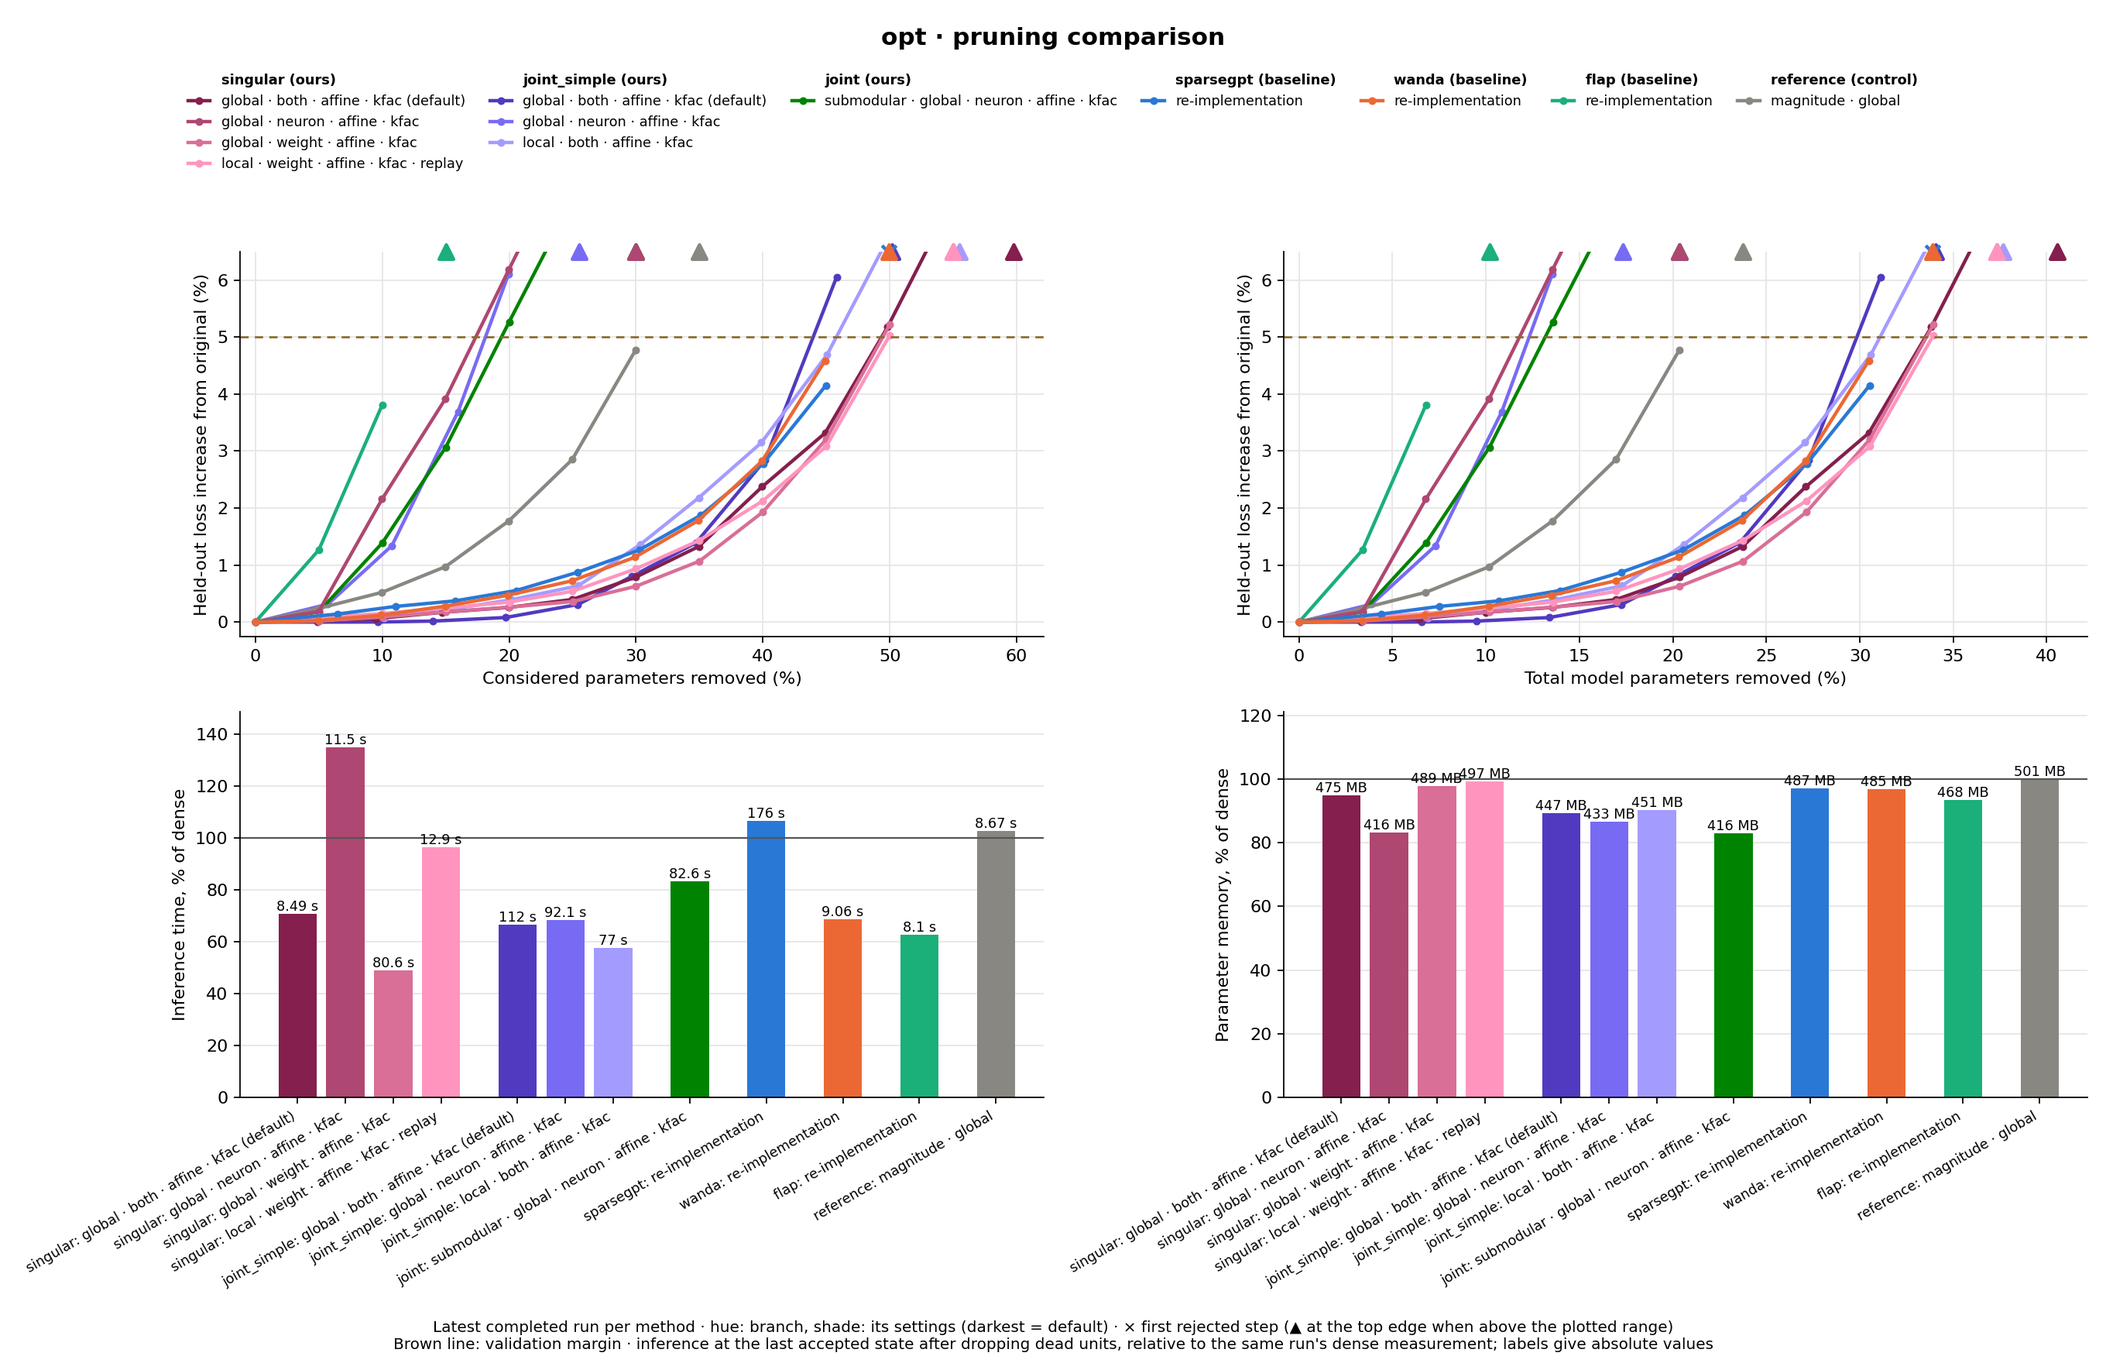
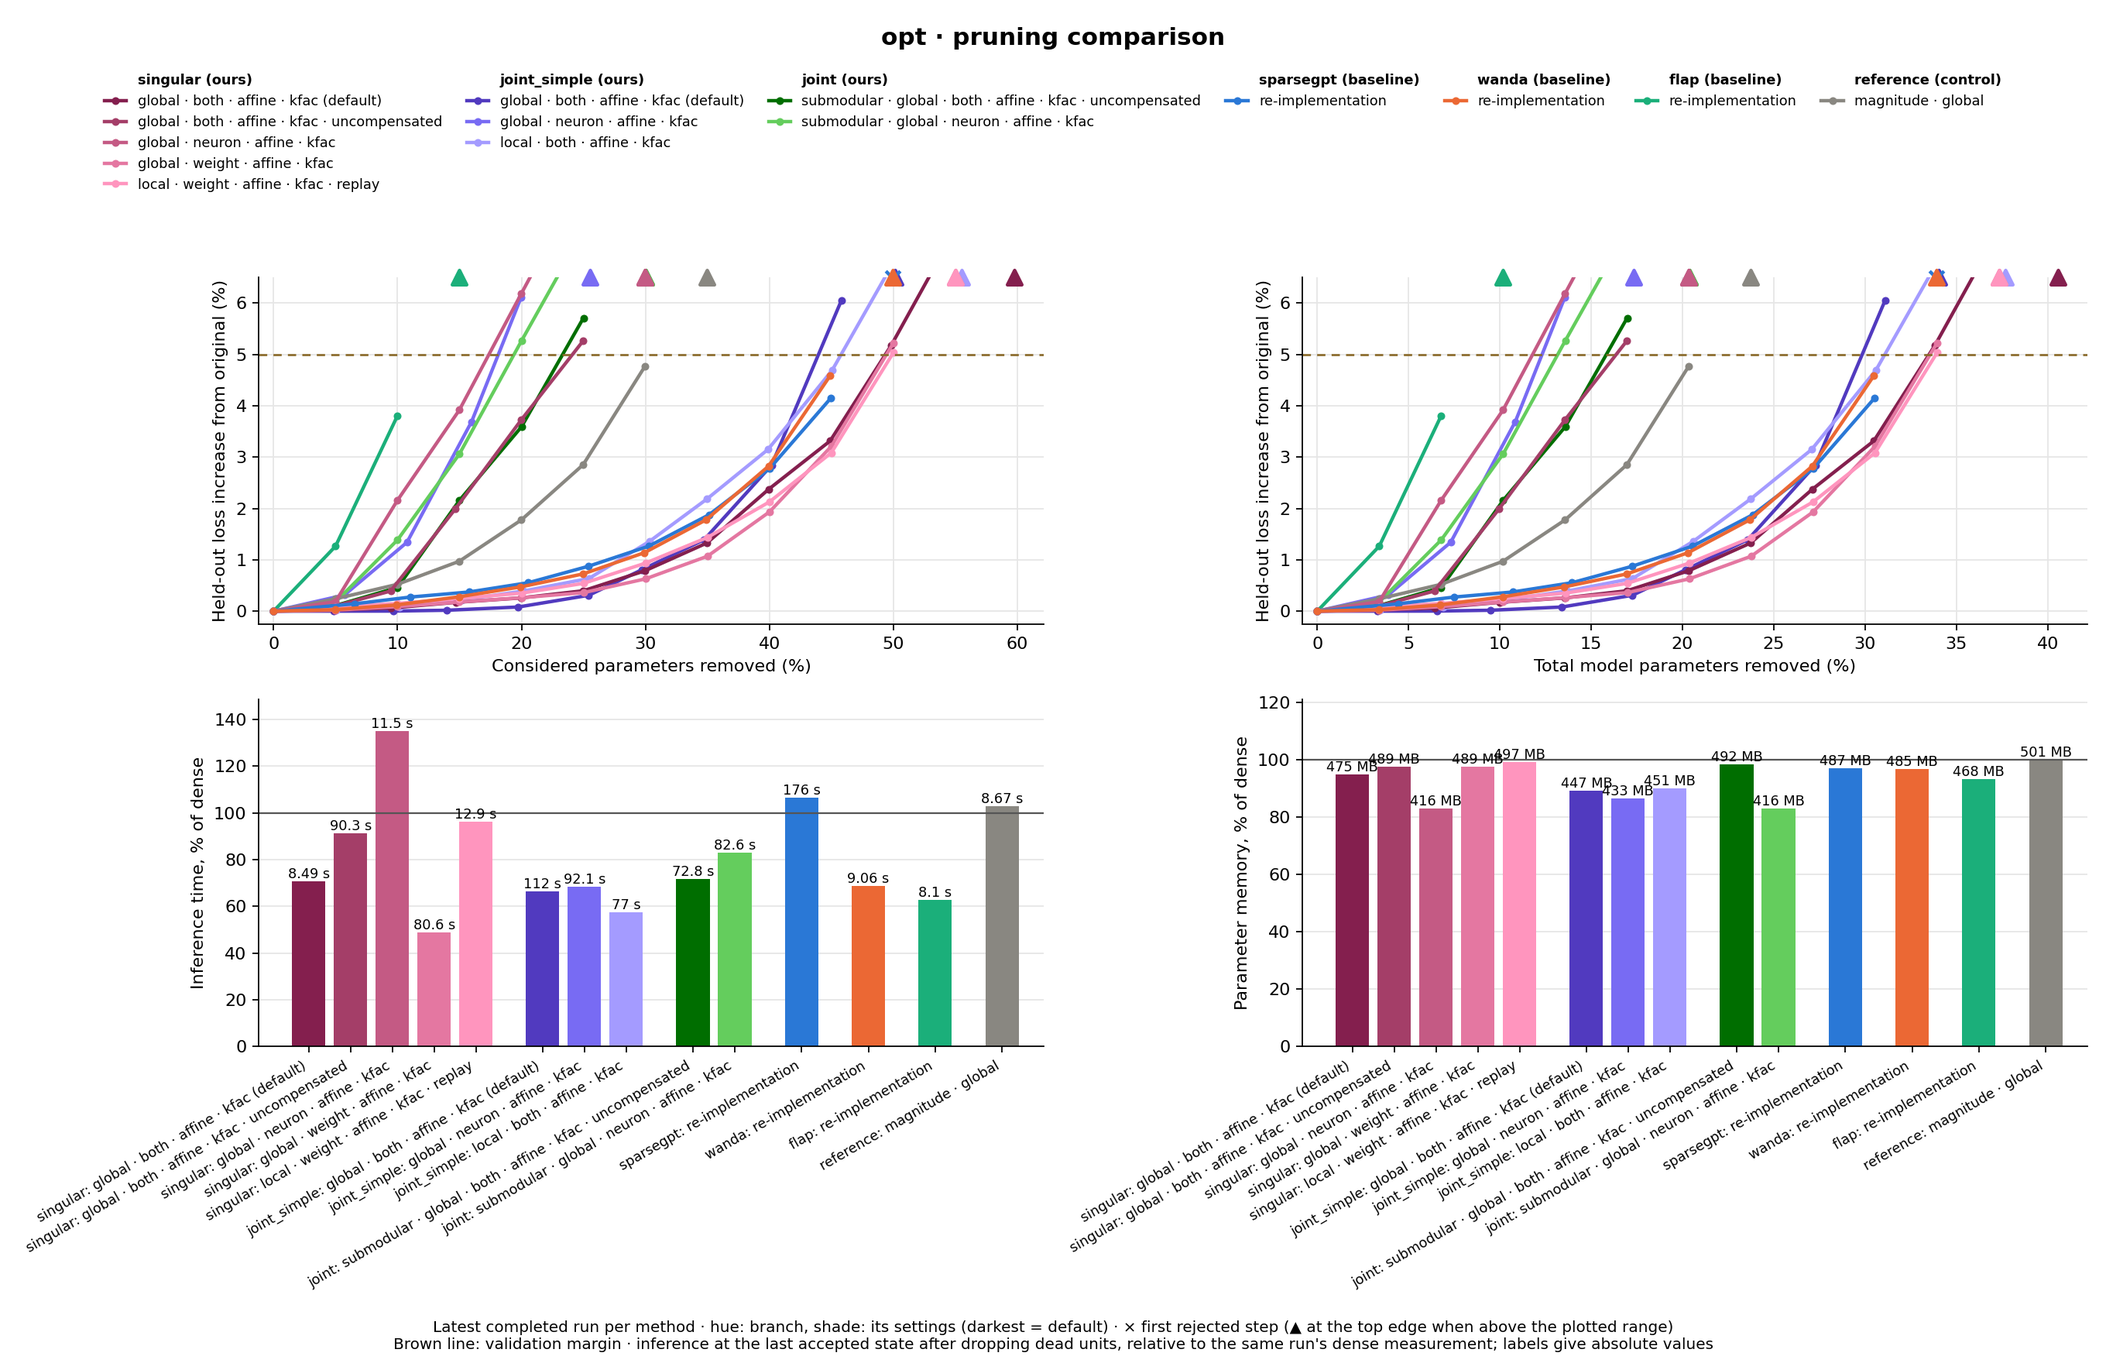
update

diff --git a/handoff/theory_prompt.md b/handoff/theory_prompt.md
@@ -1,0 +1,198 @@
+# Handoff: theory of structure-aware second-order pruning
+
+You are continuing the theoretical side of a research project on pruning neural networks. The code will be linked
+separately; it is the source of truth for what is implemented. This document records what the code cannot tell you:
+the spirit of the project, the vocabulary, the reasoning behind design decisions, the related work we considered (and
+how firmly each claim is established), the conclusions reached so far, and the open questions. State of 2026-11-15.
+
+## Working style the user expects
+
+- Be concise; give the gist first. Equations render as LaTeX (`$...$`, `$$...$$`) and are preferred to Unicode.
+- Prefer principled, parameter-free formulations. A free trade-off coefficient (a λ with units) is a smell; prefer
+  constrained forms or coefficients fixed by theory (e.g. confidence bounds). The user assumes a cleaner, more general
+  formulation is also more likely to be correct.
+- Always distinguish (i) published claims, (ii) project notes/derivations, (iii) your own new reasoning. Several
+  references below came from abstracts or memory only; say so when you rely on them. Papers the project builds on
+  should live in `sources/` (the repo's reference archive).
+- Correct the user directly when a premise is wrong (e.g. "isn't this just X?" → explain the actual difference).
+
+## Spirit of the project
+
+The project began from the supervisor's *boundary pruning* framework for symbolic regression (sources: `Emergent_SR`,
+`NNpruning — working notes`, original code). Its ideas, carried to neural networks:
+
+- Every pruning move is a **limit of the parametrisation, realised exactly**: zeroing a weight, saturating a unit
+  (bias → ±∞), replacing a unit by its mean (folded into the next bias), merging duplicates, rank cuts. Moves follow
+  from the architecture rather than a list of heuristics.
+- **Identifiability decides how a move is judged.** *Exact* redundancy (a structural null) is removed at zero cost
+  with no statistic; *sloppy* redundancy has no valid Fisher statistic and needs held-out data.
+- The `classic` branch is this framework (greedy structural moves, held-out selection, BIC-style tie-break).
+
+The user's expansion is a **second-order, joint** view. Choose a deletion set D and compensating values u on surviving
+coordinates U to minimise the Fisher quadratic damage, while crediting the **structural savings K(D)**: everything
+that function-preserving cleanup (*canonicalization*) frees once D is deleted — dead neurons (all incoming or all
+outgoing weights gone), constants folded into downstream biases, cascades. Historical objective:
+
+$$
+\tfrac12\,\Delta(D,u)^\top F\,\Delta(D,u) \;+\; \tfrac{\mu}{2}\|u\|^2 \;+\; \lambda_u\,|\mathrm{supp}(u)| \;-\; \lambda_d\,K(D).
+$$
+
+**The current research focus is operationalising "exploit the model's structure" through K(D)**, efficiently and with
+theory behind it. Three axes that used to be conflated under "joint": (1) whether/how U is charged, (2) including K(D)
+(which requires optimising over *sets*), (3) the algorithm (until recently only Gurobi).
+
+## Vocabulary and settled facts
+
+- **F** is the *model* Fisher (labels sampled from the model). $\tfrac12\delta^\top F\delta$ approximates the average KL
+  between dense and pruned predictions; it is ≥ 0 and zero only at δ = 0, so this objective can never say pruning
+  *improves* the model. The per-example KL has **no linear term** at δ = 0 for any weights (the score has zero mean
+  under the model's own distribution); its Hessian is the per-example Fisher $F_i$.
+- **K-FAC**: block-diagonal per affine module, $F_m \approx B_m\otimes A_m$ (A: input second moments incl. a bias
+  column; B: sampled output-gradient second moments). Consequences: the optimal compensation for deletions in module m
+  lies entirely in m; with a fixed per-module budget, deletion selection decomposes per module exactly.
+- **Compensation** = solving the AXB quadratic over all surviving coefficients of a module ("full complement",
+  conjugate gradient). **OBS singleton score** $\tfrac12 w^2/[F^{-1}]_{ii}$ is the cost *with* compensation; the OBD
+  score $\tfrac12 w^2 F_{ii}$ is the cost *without*.
+- **Shared settings** (meaning fixed across methods):
+  - `scope: local | global`. Local = each solve unit meets the target alone (quota). Global = one model-wide problem and budget. Under K-FAC, global reduces to per-unit problems linked by one shared price per deletion, so global vs local differs only in budget sharing. With the exact Fisher, global also couples modules.
+  - `replay` (local only): prune block by block, re-measuring statistics on the already pruned model (incompatible with a single global budget).
+  - `unit: weight | neuron | both`.
+  - `affine`: biases are candidates and compensation variables, or frozen.
+  - `curvature: kfac | fisher`.
+  - `objective: kl | spread`.
+  - `compensation: full | none`.
+- **Methods** (branches):
+  - `singular`: score candidates once by singleton OBS cost per removed parameter, select up to budget, then one full compensation per module.
+  - `joint`: per greedy move, exact MIQP (Gurobi) over a tiny pool (~8 blocks + 8 update coordinates) with an update charge and exact K via logical constraints; everything recomputed per move.
+  - `joint_simple`: canonical L0 by penalised proximal gradient on $\tfrac12(V-W)^\top F(V-W)+\lambda\,\mathrm{retained}(V)$ over all coefficients. K enters through a three-state neuron prox (keep / constant / disconnected); λ is searched per step; no update charge.
+  - `joint_submodular`: greedy cover over lifted candidates (below), with neuron cuts applied one at a time with exact rank-one compensation, weights in rounds, and a full solve per round.
+  - `classic`: the supervisor's framework.
+  - Baselines: Berman et al. (Fisher-distance scores), SparseGPT, Wanda, FLAP, SliceGPT and LLM-Pruner (authors' code), and a magnitude/random reference.
+- **Protocol**: every method prunes progressively until held-out validation loss exceeds the dense loss by 5% + 2
+  paired standard errors; fixed-target methods sweep 5% steps from dense. Benchmarks: two-moons, modular addition,
+  "berman" (MNIST SimpleNN from Berman et al.), OPT-125M (SparseGPT setting), OPT-125M SliceGPT setting, LLaMA-7B
+  settings (blocked by GPU memory).
+
+## Theoretical conclusions reached so far
+
+1. **K(D) is not submodular in weight space.** Deleting the last live weight of a neuron frees the whole neuron
+   (increasing returns). Example: incoming a, b, outgoing c: $K(\{b\})-K(\varnothing)=1<K(\{a,b\})-K(\{a\})=2$. The
+   "all incoming OR all outgoing" death rule means it is not cleanly supermodular either.
+2. **Lifting restores submodularity exactly.** Add, per hidden neuron, two candidate *copies*: a fan-in cut (the neuron
+   becomes a constant folded downstream) and a fan-out cut. Each candidate covers coordinates (a weight itself; a neuron
+   copy its row, column and own bias). Savings are then a **coverage function** $K(T)=|\bigcup_{v\in T}\mathrm{cover}(v)|$,
+   which is submodular, and still exact: the increasing returns were an artifact of describing structures only through
+   their weights. Both cuts cover the same coordinates; they differ only in compensation (the fan-in cut alters the
+   protected downstream bias). Gap: multi-level cascades in chains of ≥ 3 layers (exact for 2-layer MLP blocks, e.g.
+   every OPT/LLaMA MLP).
+3. **Use the constrained form.** K counts parameters and damage is in nats, so $K-\mathrm{damage}$ fixes an arbitrary
+   exchange rate. Prefer $\min\ \mathrm{damage}\ \text{s.t.}\ K\ge k$ (progressive targets) or
+   $\max K\ \text{s.t.}\ \mathrm{damage}\le\rho$; λ becomes a Lagrange multiplier. Iyer & Bilmes also show the
+   difference form is inapproximable in the worst case.
+4. **Damage is weakly submodular.** Compensated damage is a best-subset-type objective; restricted strong convexity
+   implies weak submodularity (Elenberg et al.), with ratio set by the conditioning of F on sparse sets. Damping improves
+   it. This is what gives greedy over lifted candidates its footing.
+5. **Incremental updates under K-FAC.** Removing a row (or column) of module m is a Schur-complement update of the
+   restricted $B^{-1}$ (or $A^{-1}$), O(d²), exact; scattered single weights break the Kronecker structure (no closed
+   form) and must be batched with a CG solve between batches.
+6. **A convex alternative was considered and set aside.** The submodular surrogate
+   $F(S)=\alpha|S|+\beta\sum_g \mathrm{size}_g[S\cap g\ne\varnothing]$ has a convex envelope ($\ell_1$ + size-weighted
+   group $\ell_\infty$, via Bach's Lovász-extension result) but cannot express the OR death rule; it remains an option for
+   a convex, very scalable relaxation.
+7. **Label-based objectives fail in the quadratic framework.** Adding the true-label held-out gradient (a linear term)
+   makes the optimum a free Newton step on held-out data; along nearly flat Fisher directions it is enormous (≈250× the
+   weight norm in MNIST layer 1). A confidence-bound penalty does not help because the held-out gradient is genuinely
+   significant; the failure is quadratic-model validity. Damping fixes it only with ~100–1000× the damping that
+   compensation needs (the RHS has components in weak directions). Needs a trust region (e.g. Levenberg–Marquardt ratio
+   test) or abandoning labels in the objective.
+8. **The spread objective (implemented).** Use the per-example KL from the dense model for both terms (no labels, no
+   linear terms):
+   $$\min_{\delta:\ \delta_D=-w_D}\ \mathbb{E}_i[\mathrm{KL}_i]+\beta\sqrt{\mathrm{Var}_i[\mathrm{KL}_i]},\qquad \beta=\sqrt{2\log(1/\eta)/n}.$$
+   To leading order $\mathrm{Var}_i[\mathrm{KL}_i]=\tfrac14\mathrm{Var}_i[\delta^\top F_i\delta]$ (quartic; spread of squared
+   prediction distortion $\|J_i\delta\|^2_{H_i}$). Its gradient is a reweighted Fisher, so it is optimised by IRLS:
+   $F_w=\mathbb{E}_i[(1+\beta z_i)F_i]$ with $z_i$ the standardised exact per-example KL of the current model. The user
+   preferred this bound form over mean + λ·variance because the bound's coefficient is dimensionless and fixed by n, η.
+9. **Compensation is a dial between generalisation and robustness** (empirical, berman). Uncompensated deletion acts
+   as shrinkage on an overfit model: held-out loss drops ~5% below dense around 40–46% removed, then collapses (~45–58%).
+   Full compensation reproduces the (overfit) dense model, so no dip, but survives to ~80%. The MIQP's dip came from its
+   tiny update budget, not Gurobi: 0 / 8 / 64 updates give progressively shallower dips and later breaks; charging updates
+   (λ_u) is irrelevant. On OPT-125M no method dips (the pretrained model is not overfit to its evaluation data). Using the
+   OBS score without compensation is mis-specified (should use OBD).
+
+## Related work considered
+
+Status markers: [S] PDF in `sources/` (read in full or substantially); [A] found by web search, abstract/summary only;
+[M] recalled from memory, not checked this project.
+
+Combinatorial / second-order pruning:
+- [S] CHITA (Benbaki et al., ICML 2023): OBS with Fisher, combinatorial, unstructured, Hessian-free IHT.
+- [A] OSSCAR (Meng et al., ICML 2024): one-shot structured pruning as combinatorial optimisation over subsets of
+  structures, local search with low-rank updates, scales to OPT-30B.
+- [A] FALCON (Mazumder group, 2024): ILP jointly under FLOP and sparsity constraints.
+- [A] ALPS (Meng et al., 2024): L0-constrained layer-wise pruning solved with ADMM plus PCG refit; strong at 70%.
+- [A] iCBS (Rosenberg et al., Amazon, 2024): block-coordinate combinatorial brain surgeon (QCBO per block). Most direct
+  way to scale an exact MIQP.
+- [A] ZipLM (Kurtic et al., NeurIPS 2023): structured OBS, inference-aware greedy removal.
+- [A] Knapsack pruning (Aflalo et al., 2020): neurons as knapsack items.
+- [A] DepGraph (Fang et al., CVPR 2023): automatic coupled-parameter groups from the graph (generic version of our
+  inferred canonical structure).
+- [A] Hazimeh, Mazumder & Radchenko (Ann. Stat. 2023): group L0 with local search and custom branch-and-bound to 10⁶
+  features. [A] Bertsimas & Van Parys (Ann. Stat. 2020): exact sparse regression via cutting planes at 10⁵ scale.
+- [S] L0Learn (Hazimeh & Mazumder): penalised proximal gradient for L0 (basis of `joint_simple`).
+- [A] Louizos et al. (ICLR 2018): hard-concrete L0 gates, also group gates.
+- [A] QUBO pruning (2024–2026) and QPBO/roof duality (Rother et al., CVPR 2007).
+
+Set functions:
+- [A] El Halabi, Srinivas & Lacoste-Julien (NeurIPS 2022): neuron selection with compensation is weakly submodular;
+  greedy with guarantees.
+- [A] Bach (NIPS 2010) and monograph; [A] Jenatton et al. (JMLR 2011): submodular → structured norms via the Lovász
+  extension; exact prox for tree-structured groups.
+- [A] Iyer & Bilmes (UAI 2012): difference of submodular functions (MM algorithms); [A] Iyer & Bilmes (NeurIPS 2013):
+  submodular cover / submodular knapsack constraints (iterate modular bounds) — closest to our constrained form.
+- [A] Das & Kempe (ICML 2011) submodularity ratio; [A] Elenberg et al. (2016) RSC ⇒ weak submodularity.
+- [A] Harshaw et al. (ICML 2019): weakly submodular minus modular cost (distorted greedy).
+- [A] Bai & Bilmes (ICML 2018): submodular + supermodular (curvature-dependent greedy).
+- [M] Nemhauser–Wolsey–Fisher, Feige (max coverage), Minoux lazy greedy, Mirzasoleiman stochastic greedy, Wolsey
+  submodular cover, Buchbinder double greedy.
+
+Variance and generalisation:
+- [M] Maurer & Pontil (2009) empirical Bernstein bounds; [M] Namkoong & Duchi (NeurIPS 2017) variance regularisation ≈
+  χ²-DRO. Basis of the β in the spread objective; verify before citing.
+- [M] Heskes (1998) bias–variance for log loss; [M] Molchanov et al. (2017) variational dropout sparsification; [M]
+  Louizos et al. (2017) Bayesian compression; [M] Achille & Soatto, information in the weights.
+
+The supervisor's three manuscripts ([S], in `sources/`):
+- Achille & Soatto, *Information Dropout* (1611.01353): Information Bottleneck via learned multiplicative noise per
+  unit; with ReLU and a log-uniform prior each unit costs $-\log\alpha_j$; a unit tolerating unbounded noise carries no
+  information. Bridge (ours): post-training, noise on unit j costs $\tfrac12\alpha_j c_j$ (our uncompensated column
+  cost); $\max\sum\log\alpha_j$ s.t. budget gives $\alpha_j\propto1/c_j$; differs from our ranking by dropping the
+  per-parameter normalisation (cost vs cost/size) — a candidate "K-free" structural reward.
+- Yu et al., *Effective Information Criterion* (yu26az, ICML 2026): multiplicative rounding noise per node,
+  $s_k^2=1+\sum_i\kappa_{ki}^2 s_i^2$, EIC = worst node; judges the computation graph, not the function. Candidate
+  "error-propagation safety" diagnostic for pruned networks.
+- Moscato, *Sequential Newton–MIMEP* (manuscript_final): representation depth vs scientific depth; admit one
+  coordinate at a time; protected tails in the null space of admitted quantities; profiled information
+  $I_{x|N}$; nuisance monotonicity (enlarging free nuisance directions cannot increase profiled information); inherited
+  error amplification $g^\top\Sigma g$. Links: OBS score = Wald statistic with all other coefficients as nuisance;
+  compensation = nuisance refit; our validation stop = admission test.
+
+## Supervisor's open requests (her words, paraphrased)
+
+- Pruning as **variance reduction and error-propagation safety**; hope: a variance objective might make an explicit
+  K(D) unnecessary. Our assessment so far: noise-site choice plays the role of K; variance objectives are soft (exact
+  zeros only for exact nulls); log-scale (IB-type) rewards, not raw variance, can stand in for a count.
+- "Out of curiosity/validation, look at the **evolution of the bias–variance trade-off** if computationally viable."
+  Not yet done. Distinguish variance *across examples* (what the spread objective uses) from variance *across training
+  sets* (the bias–variance notion). Options: retrain replicates on small benchmarks (Heskes decomposition), or Laplace
+  predictive variance $J F^{-1}J^\top/n$ on surviving parameters. Held-out loss variance per step is already logged.
+
+## Open questions
+
+- Guarantees for greedy cover with exact lifted K plus compensated damage (coverage reward, weakly submodular cost,
+  constrained/cover form); role of the multi-level cascade gap.
+- Trust-region treatment that would make held-out information usable in the quadratic framework.
+- A principled partial-compensation axis (the generalisation/robustness dial) and choosing the operating point by
+  validation rather than at the break point.
+- Whether a K-free, information/variance-based structural reward (Information Dropout bridge) matches K(D) on the
+  parameter axis, or only on robustness axes.
+- Theory for why spread helps `joint_simple` (break 65% → 75% on berman) but not `joint_submodular`.
